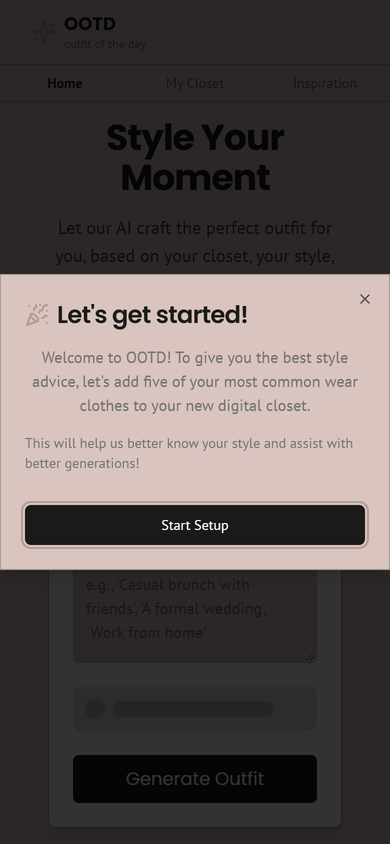
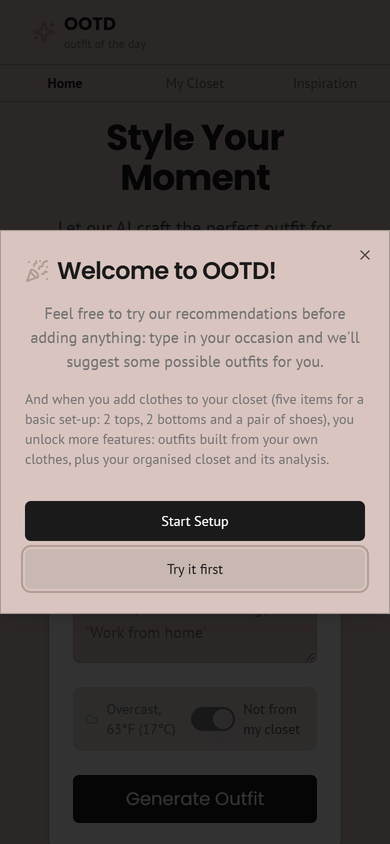
Document "try it first" in the manual; fix re-picking the same photo
- README quick start now has two paths: try general outfit ideas with
  no set-up, or set up the closet for outfits from your own clothes.
  New screenshots of the welcome pop-up and of general ideas, taken
  from the live site. Limits and troubleshooting cover the new
  "General ideas only" message.
- Choosing the same photo twice in a row did nothing, because the file
  box kept its old value and the browser sent no change event (found
  by the live test after a blocked upload). The box is now cleared
  after each pick, on the closet page and in set-up.

Changed region(s): [[0.0, 0.2464, 1.0, 0.5545], [0.0, 0.5853, 1.0, 0.7393], [0.1846, 0.8934, 0.8308, 0.9858]]

diff --git a/src/app/page.tsx b/src/app/page.tsx
@@ -393,6 +393,8 @@ export default function OutfitGeneratorPage() {
   const handleOnboardingFileChange = (e: React.ChangeEvent<HTMLInputElement>) => {
     const selectedFile = e.target.files?.[0];
     if (selectedFile) processOnboardingFile(selectedFile);
+    // Clear the input so picking the same photo again still triggers a change.
+    e.target.value = '';
   };
 
   const handleDragOver = (e: React.DragEvent<HTMLLabelElement>) => { e.preventDefault(); setIsDraggingOver(true); };

diff --git a/src/app/closet/page.tsx b/src/app/closet/page.tsx
@@ -154,6 +154,8 @@ export default function ClosetPage() {
     if (selectedFile) {
       processFile(selectedFile);
     }
+    // Clear the input so picking the same photo again still triggers a change.
+    e.target.value = '';
   };
 
   const handleDragOver = (e: React.DragEvent<HTMLLabelElement>) => {

diff --git a/README.md b/README.md
@@ -29,13 +29,21 @@ Started at LaunchX (Boston University) by Team 11 · Maintained by Yu Chen (Roge
 
 ## Quick start
 
+**Try it first (no set-up needed)**
+
 | Step | What to do | |
 |---|---|---|
-| 1 | Open https://ootdt11.netlify.app. A welcome screen appears the first time. Tap **Start Setup**. | <img src="docs/screenshots/1-welcome.png" width="160" alt="Welcome screen"> |
-| 2 | Choose how clothing types should be named: Male, Female, Non-binary or Prefer not to say. Tap **Continue**. | <img src="docs/screenshots/2-gender.png" width="160" alt="Choosing how clothes are named"> |
-| 3 | Add **5 photos: 2 tops, 2 bottoms and 1 pair of shoes**. For each one, tap the box, pick a photo, then tap **Add Item**. The AI reads each photo in a few seconds. | <img src="docs/screenshots/3-add-photo.png" width="160" alt="Adding a photo"> |
-| 4 | Tap **Start Generating**. Type an occasion if you like (for example "coffee with friends"), allow location or type a city for the weather, then tap **Generate Outfit**. | <img src="docs/screenshots/4-outfit.png" width="160" alt="An outfit suggestion"> |
-| 5 | Like the outfit? Tap ♡ to save it to **Inspiration**. | <img src="docs/screenshots/8-inspiration.png" width="160" alt="Saved outfits"> |
+| 1 | Open https://ootdt11.netlify.app. A welcome pop-up appears the first time. Tap **Try it first**. | <img src="docs/screenshots/1-welcome.png" width="160" alt="Welcome pop-up with Try it first and Start Setup"> |
+| 2 | Type an occasion (for example "casual brunch"), allow location or type a city for the weather, then tap **Generate Outfit**. You get general outfit ideas, matched to the occasion and the weather. | <img src="docs/screenshots/0-general-ideas.png" width="160" alt="General outfit ideas before set-up"> |
+
+**Set up your closet (unlocks outfits from your own clothes)**
+
+| Step | What to do | |
+|---|---|---|
+| 3 | Tap **Start Setup** in the welcome pop-up, or **start the set-up** on the home page. Choose how clothing types should be named: Male, Female, Non-binary or Prefer not to say. Tap **Continue**. | <img src="docs/screenshots/2-gender.png" width="160" alt="Choosing how clothes are named"> |
+| 4 | Add **5 photos: 2 tops, 2 bottoms and 1 pair of shoes**. For each one, tap the box, pick a photo, then tap **Add Item**. The AI reads each photo in a few seconds. | <img src="docs/screenshots/3-add-photo.png" width="160" alt="Adding a photo"> |
+| 5 | Tap **Start Generating**, type an occasion if you like, then tap **Generate Outfit**. Now the outfit is built from your own clothes, with your photos. | <img src="docs/screenshots/4-outfit.png" width="160" alt="An outfit built from the closet"> |
+| 6 | Like the outfit? Tap ♡ to save it to **Inspiration**. | <img src="docs/screenshots/8-inspiration.png" width="160" alt="Saved outfits"> |
 
 **Tips for good photos:** one item per photo, laid flat or on a hanger, on a plain background in good light. Photograph clothes only, not people.
 
@@ -44,12 +52,12 @@ Started at LaunchX (Boston University) by Team 11 · Maintained by Yu Chen (Roge
 ### Home: create your outfit
 - **Occasion box** (optional): describe what you are dressing for.
 - **Weather line:** the current weather where you are. If location is blocked, tap **Enter location manually** and type a city.
-- **"Not from my closet" switch:** general outfit ideas instead of ones built from your closet.
+- **"Not from my closet" switch:** general outfit ideas instead of ones built from your closet. Until your closet has the 5 set-up items, the switch stays on, so anyone can try OOTD straight away. After set-up, turn it off for outfits built from your own clothes.
 - **Generate Outfit:** the result card shows
   - a short description of the outfit and why its colours work together;
   - a **weather alert** when the weather calls for something you don't have;
   - **Consider adding:** everyday items that would complete the look;
-  - **Suggested items from your closet**, with your own photos.
+  - **Suggested items from your closet**, with your own photos (after set-up).
 - Buttons on the result card: the first ↻ shows the next option ("1 of 3"), the second ↻ asks for new ideas, and ♡ saves the outfit.
 
 ### My Closet
@@ -84,7 +92,7 @@ OOTD uses Google's Gemini models, called only from the app's server.
 <img src="docs/screenshots/7-free-limit.png" width="250" alt="Message shown after five free photo analyses">
 
 - **5 free AI photo analyses per browser.** Each photo you add is analysed once. After five, this browser can't add more photos, even if you delete items. Requests that fail don't count. The count is kept in your browser, so clearing site data resets it. The limit of five has been part of OOTD since its first version. Set in `FREE_PHOTO_ANALYSES`, [`src/lib/free-analyses.ts`](src/lib/free-analyses.ts).
-- **5 closet items.** Set-up asks for exactly five, outfits need at least five, and the closet holds at most five.
+- **5 closet items.** Set-up asks for exactly five, outfits built from your own clothes need all five, and the closet holds at most five. General ideas work with an empty closet.
 - **Outfit suggestions are not capped per browser.** All visitors share the AI's free daily limit; when it is reached, the app says so.
 - **Photos:** PNG, JPG or WEBP; up to about 1.5 MB after the app shrinks them.
 - **Speed:** tagging usually takes a few seconds, but can take up to about 30 seconds when the AI is busy.
@@ -106,6 +114,7 @@ Full details: [privacy page](https://ootdt11.netlify.app/privacy).
 | "The AI service is busy right now" | The free AI is overloaded for a moment. Wait a little and try again; the failed attempt does not use a free analysis. |
 | "The app has reached its free AI usage limit for now" | All visitors share a daily AI limit. Try again later. |
 | "Free photo analyses used up" | This browser has used its five free photo analyses. |
+| "General ideas only" | This browser has used its free photo analyses before finishing the closet, so outfits will be general ideas. |
 | "Location access denied" on the weather line | Tap **Enter location manually** and type a city. |
 | "Invalid file type" | Use a PNG, JPG or WEBP photo. |
 
